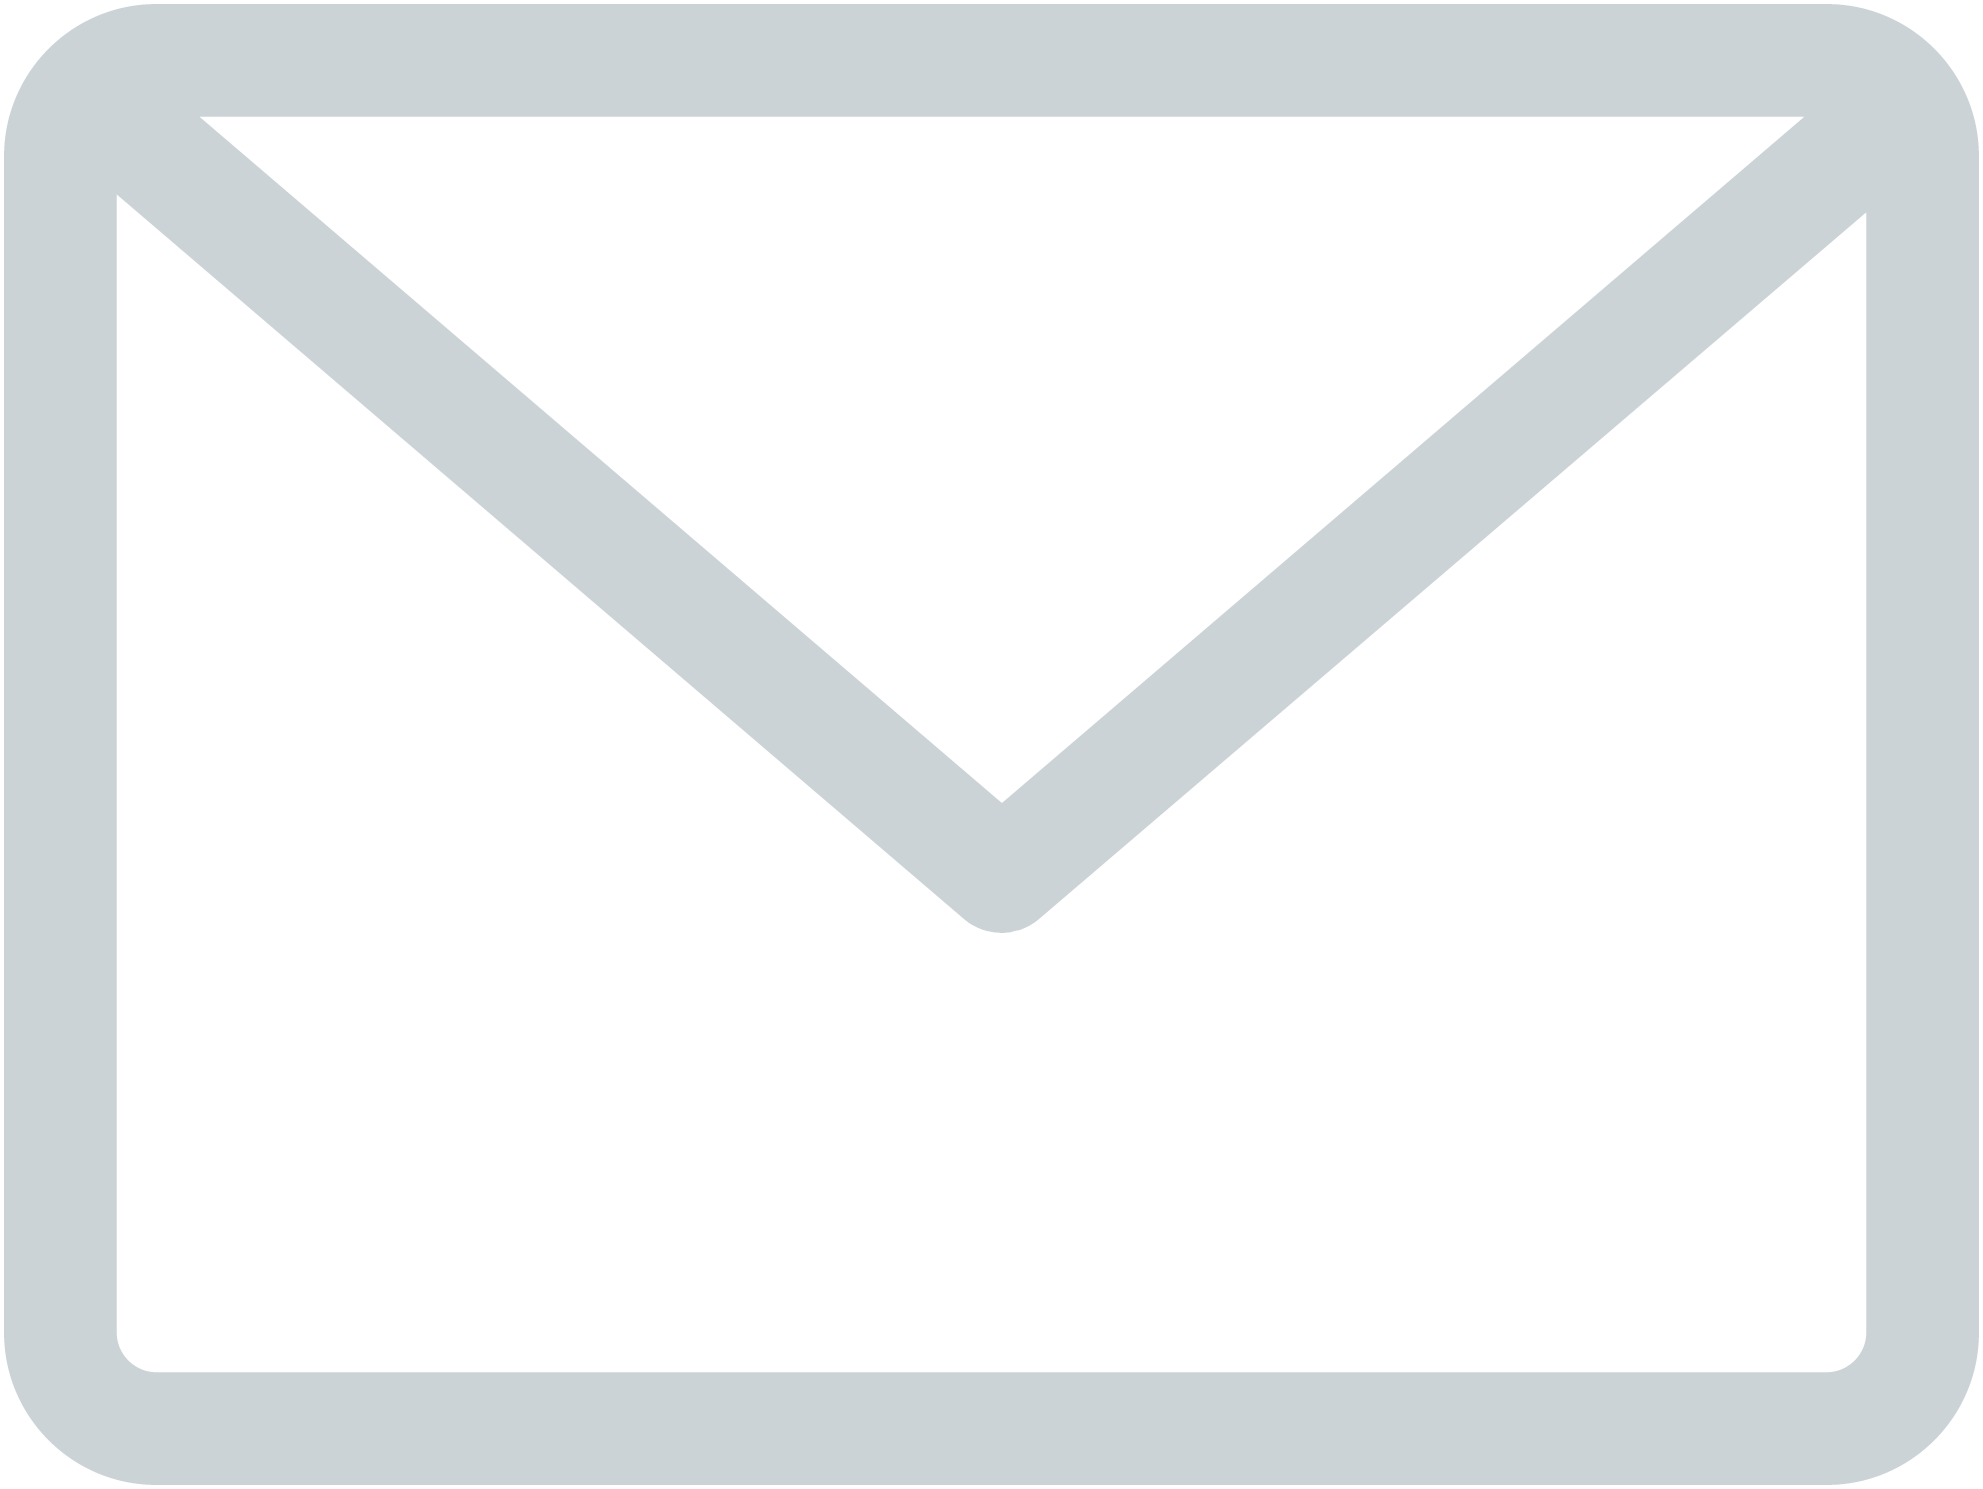
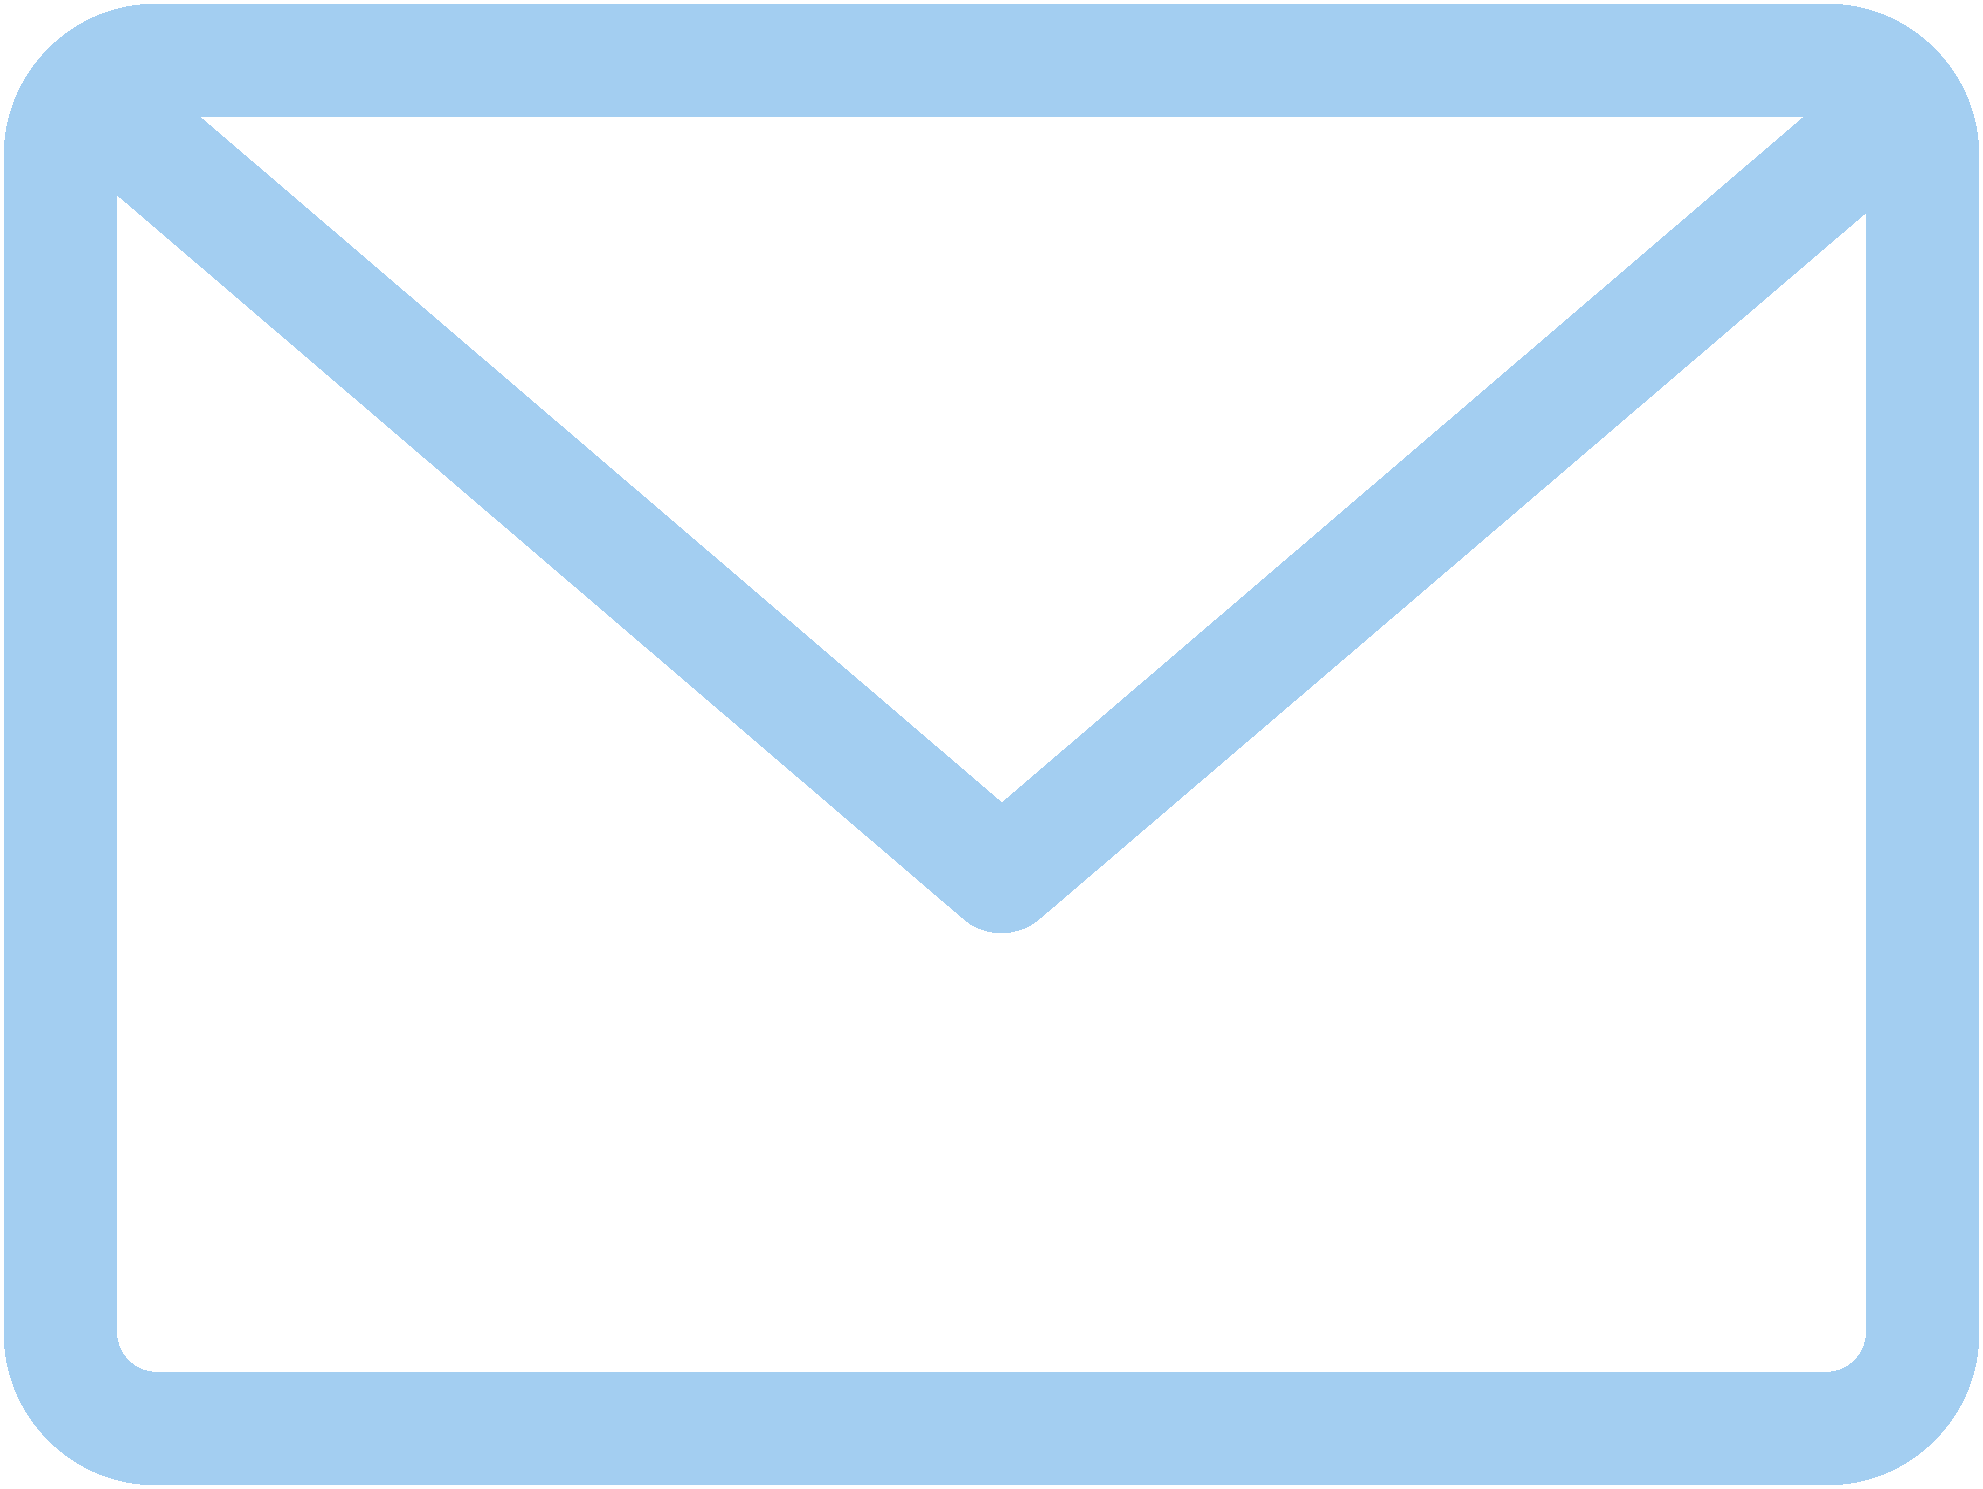
no more asylum colors

diff --git a/style.css b/style.css
@@ -10,11 +10,11 @@ body {
   place-items: center;
   min-height: 100vh;
   font-family: "Roboto Condensed", sans-serif;
-  background-color: #f4f3ee;
+  background-color: #274c77;
 }
 
 div {
-  color: #727272;
+  color: #002962;
   text-align: center;
 }
 
@@ -31,13 +31,13 @@ p {
   font-family: "Lexend Deca", sans-serif;
   text-transform: uppercase;
   font-size: 120px;
-  color: #ccd3d7;
+  color: #274c77;
 }
 
 p::before {
   content: attr(data-item);
   transition: all 1s ease-in-out;
-  color: #9db4c0;
+  color: #a3cef1;
   position: absolute;
   top: 0;
   bottom: 0;
@@ -52,32 +52,32 @@ p:hover::before {
 
 nav {
   margin: 25px;
-  background-color: #f4f3ee;
+  background-color: #274c77;
   padding: 10px;
 }
 nav .menuItems {
   list-style: none;
   display: flex;
   justify-content: center;
-  background-color: #9db4c0;
+  background-color: #6096ba;
 }
 nav .menuItems li {
   margin: 50px;
 }
 nav .menuItems li a {
   text-decoration: none;
-  color: #253237;
+  color: #274c77;
   font-size: 30px;
   font-weight: 40;
   transition: all 0.5s ease-in-out;
   position: relative;
   text-transform: uppercase;
-  background-color: #9db4c0;
+  background-color: #6096ba;
 }
 nav .menuItems li a::before {
   content: attr(data-item);
   transition: 0.5s;
-  color: #e0fbfc;
+  color: #a3cef1;
   position: absolute;
   top: 0;
   bottom: 0;
@@ -117,11 +117,15 @@ nav .menuItems li a:hover::before {
 h2 {
   font-size: 30px;
   font-weight: 600;
-  color: #9db4c0;
+  color: #274c77;
 }
 
 .welcome {
   margin-top: 300px;
+  background-color: #6096ba;
+  border-radius: 10px;
+  width: 800px;
+  height: 350px;
   align-content: space-around;
   display: flex;
   flex-direction: column;
@@ -130,12 +134,12 @@ h2 {
   position: relative;
 }
 
-.welcome hr {
+hr {
   border: none;
-  background-color: #9db4c0;
+  background-color: #6096ba;
   height: 6px;
-  width: 140%;
-  margin-top: 50px;
+  width: 40%;
+  margin-top: 100px;
   align-self: center;
 }
 
@@ -144,14 +148,14 @@ h2 {
   place-items: center;
   width: 800px;
   height: 200px;
-  background-color: #9db4c0;
+  background-color: #6096ba;
   margin-top: 100px;
   border-radius: 10px;
   grid-template-areas: "a c";
 }
 
 .about h2 {
-  color: #f4f3ee;
+  color: #274c77;
   margin: 10px;
 }
 
@@ -169,14 +173,35 @@ h2 {
   height: 150px;
 }
 
-.about p {
+.about-side {
   grid-area: "c";
+  display: flex;
+  flex-direction: column;
+  align-items: center;
+}
+
+.about-side p {
   font-size: 20px;
-  color: #f4f3ee;
+  color: #a3cef1;
   margin-top: 10px;
 }
 
 .about-h {
   grid-area: "a";
   margin: 25px;
+}
+
+.res-btn {
+  border: 3px solid #274c77;
+  width: 15%;
+  border-radius: 5px;
+  text-decoration: none;
+  box-sizing: border-box;
+  padding: 0.35em 1.2em;
+  color: #274c77;
+}
+
+.res-btn:hover {
+  background-color: #274c77;
+  color: #a3cef1;
 }

diff --git a/index.html b/index.html
@@ -1,11 +1,10 @@
 <!DOCTYPE html>
 <html lang="en">
 <head>
-    <meta charset="UTF-8">
-    <meta name="viewport" content="width=device-width, initial-scale=1.0">
-    <title>Judy Naamani</title>
-    <link rel="stylesheet" href="./style.css">
-
+<meta charset="UTF-8">
+<meta name="viewport" content="width=device-width, initial-scale=1.0">
+<title>Judy Naamani</title>
+<link rel="stylesheet" href="./style.css">
 <link rel="preconnect" href="https://fonts.gstatic.com" crossorigin> 
 <link href="https://fonts.googleapis.com/css2?family=Lexend+Deca&family=Roboto+Condensed&family=Shadows+Into+Light&display=swap" rel="stylesheet">
 <link rel="preconnect" href="https://fonts.googleapis.com"> 
@@ -33,15 +32,20 @@
       <img class='mailIcon' src="icons/mail.png">
     </a>
   </div>
-  <hr>
+
 
 </div>
+<hr>
 <!-- <h2 class="about-me">ABOUT ME</h2> -->
 <div class="about">
   <div class="about-h"> <h2>ABOUT ME</h2>
   <img src="icons/default.jpeg">
-</div>
+  </div>
+
+  <div class="about-side">
   <p>Hi! I'm Judy Naamani, a 3rd year student at the University of Toronto specializing in Computer Science.</p>
+  <a href="#" class="res-btn">Resume</a>
+</div>
 </div>
 
   
